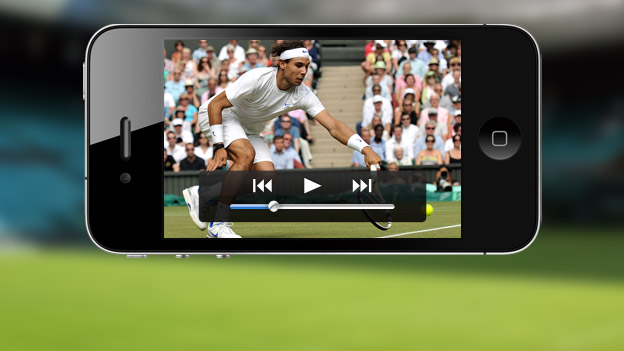
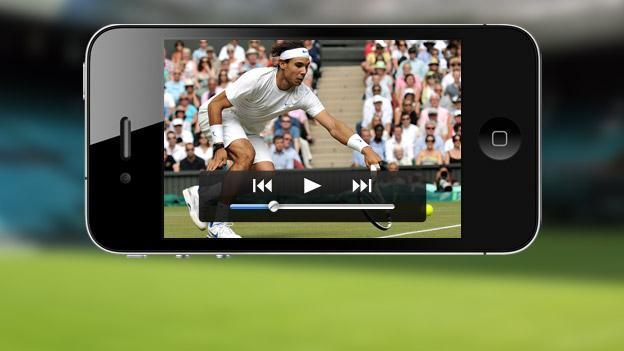
Opt images

diff --git a/gulpfile.js b/gulpfile.js
@@ -1,27 +1,42 @@
 // Load plugins
 var gulp = require( "gulp" ),
   //  jshint = require( "gulp-jshint" ),
-    uglify = require( "gulp-uglify" ),
-    rename = require( "gulp-rename" ),
-    concat = require( "gulp-concat" ),
-    watch = require( "gulp-watch" );
+  uglify = require( "gulp-uglify" ),
+  rename = require( "gulp-rename" ),
+  concat = require( "gulp-concat" ),
+  imagemin = require( "gulp-imagemin" ),
+  imageResize = require( "gulp-image-resize" ),
+  watch = require( "gulp-watch" );
 
 // Scripts
 gulp.task( "scripts", function() {
-    return gulp.src([ "_components/**/*.js", "_script/**/*.js" ])
-        .pipe( concat( "main.js" ) )
-        .pipe( rename({
-            suffix: ".min"
-        }) )
-        .pipe( uglify() )
-        .pipe( gulp.dest( "assets/js" ) );
+  return gulp.src([ "_components/**/*.js", "_script/**/*.js" ])
+    .pipe( concat( "main.js" ) )
+    .pipe( rename({
+      suffix: ".min"
+    }) )
+    .pipe( uglify() )
+    .pipe( gulp.dest( "assets/js" ) );
+});
+
+gulp.task( "images", function() {
+  return gulp.src( "assets/img/**/*" )
+    .pipe( imagemin({
+      progressive: true
+    }) )
+    .pipe( imageResize({
+      width: 1024,
+      // height: 100,
+      // crop: true,
+      upscale: false
+    }) )
+    .pipe( gulp.dest( "assets/img/" ) );
 });
 
 // Watch
 gulp.task( "watch", function() {
-    gulp.watch( "./**/*.js", [ "scripts" ]);
+  gulp.watch( "./**/*.js", [ "scripts" ]);
 });
 
 // Default task
-gulp.task( "default", [ "watch" ], function( cb ) {
-});
+gulp.task( "default", [ "watch" ], function( cb ) {});
